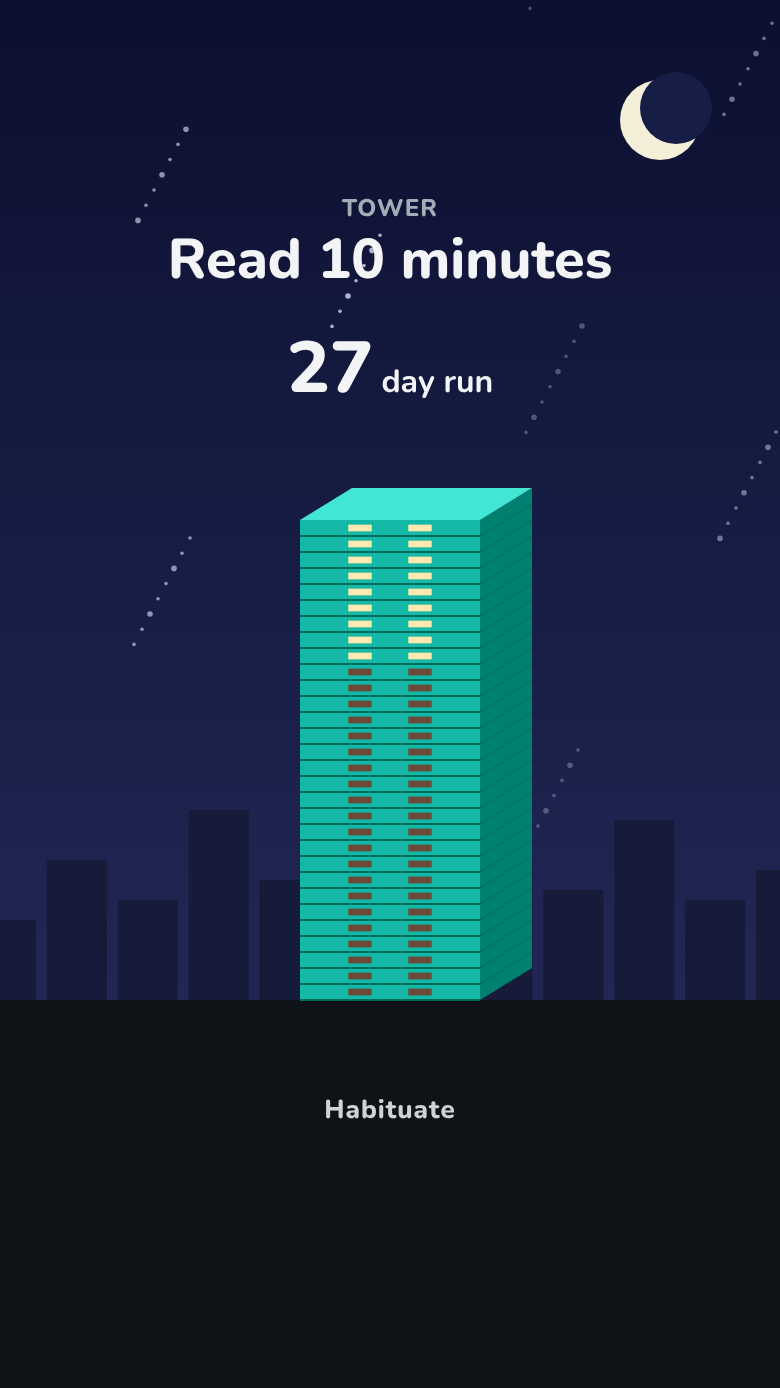
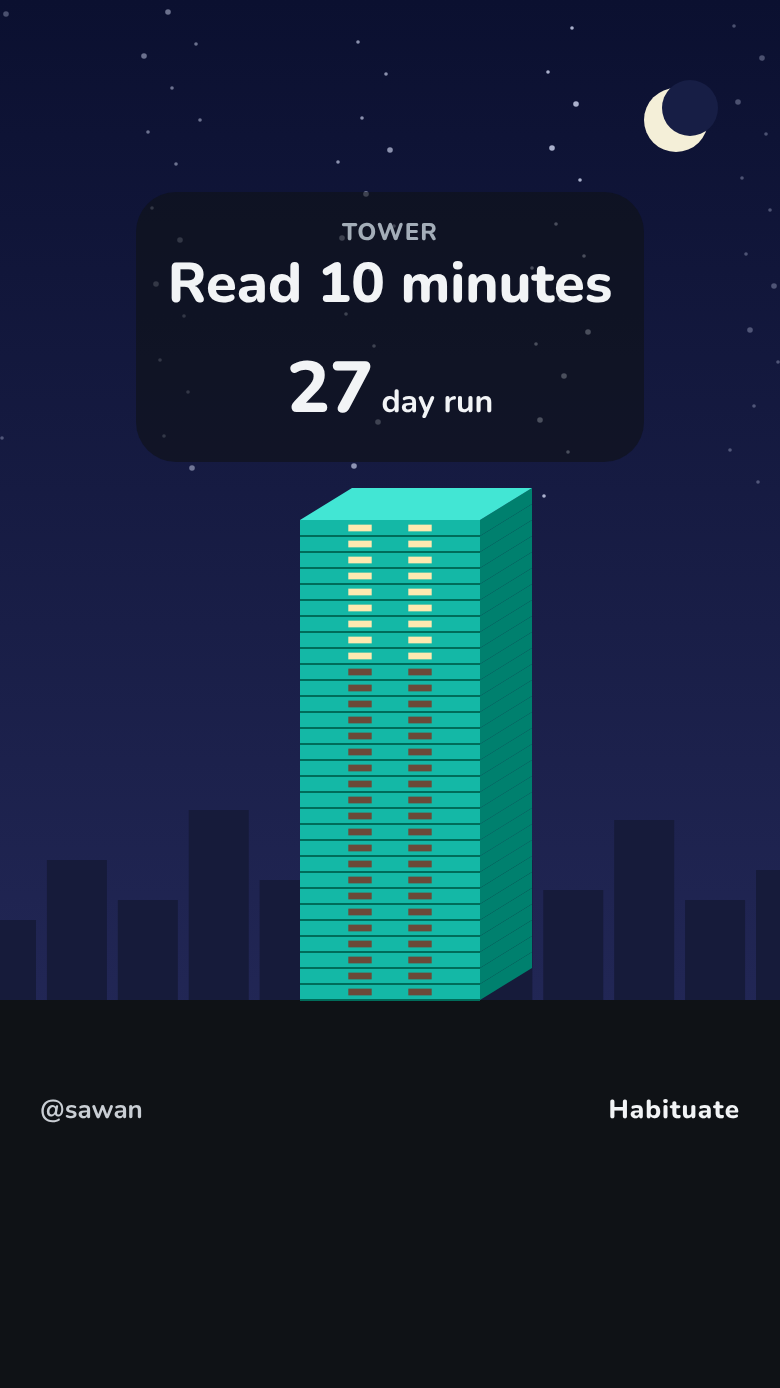
Design: share boards v2 (username, sky and colour, whole skyline, share sheet)
Claude-Session: https://claude.ai/code/session_01UvWD32uMFJU1E2B9jDYiLg

diff --git a/design/skyline/source/rd.js b/design/skyline/source/rd.js
@@ -65,21 +65,44 @@ if(S==='rd-21'){document.body.style.width='760px';document.body.style.height='64
  <div style="position:absolute;left:400px;top:200px"><div style="font-size:22px;font-weight:800">Topped out</div><div style="font-size:16px;color:${MU}">Fades behind the new one</div></div>
  <div style="position:absolute;left:520px;top:518px"><div style="font-size:22px;font-weight:800">New tower</div><div style="font-size:16px;color:${MU}">Run carries on</div></div></div>`;}
 
-// ---- share card (boards 80-82)
-const sky2=(w,h,seed=3)=>{let o='';for(let i=0;i<60;i++)o+=`<circle cx="${((i+seed)*97)%w}" cy="${((i+seed)*53)%(h*0.6)+4}" r="${i%3?0.9:1.4}" fill="#dfe6ff" opacity="${0.3+(i%4)*0.15}"/>`;return `<defs><linearGradient id="sk${w}" x1="0" y1="0" x2="0" y2="1"><stop offset="0" stop-color="#0B1030"/><stop offset="1" stop-color="#2A2F63"/></linearGradient></defs><rect width="${w}" height="${h}" fill="url(#sk${w})"/>${o}`};
-const far=(w,y)=>{let o='';const hs=[40,70,50,95,60,80,45,70,55,90,50,65];for(let i=0;i<12;i++){const x=i*(w/11)-12;o+=`<rect x="${x}" y="${y-hs[i]}" width="30" height="${hs[i]}" fill="#161B3A"/>`}return o};
-const wm=`<div style="font-size:13px;font-weight:800;letter-spacing:.5px;color:#F2F4F6;opacity:.85">Habituate</div>`;
-if(S==='rd-sh1'){document.body.style.width='390px';document.body.style.height='390px';
- R.innerHTML=`<div style="position:absolute;inset:0;overflow:hidden"><svg width="390" height="390">${sky2(390,390)}<circle cx="338" cy="52" r="16" fill="#F4EFD8"/><circle cx="345" cy="47" r="14" fill="#171E45"/>${far(390,330)}<rect y="330" width="390" height="60" fill="#0F1216"/>
- ${tw('#14B8A6',{x:70,base:330,w:84,fh:9,dx:24,dy:14,floors:fl(26,9),windows:2,today:false})}</svg>
- <div style="position:absolute;left:206px;top:84px;right:24px"><div style="font-size:12px;font-weight:800;letter-spacing:.5px;color:#A3ADB8">TOWER</div><div style="font-size:22px;font-weight:800;line-height:1.2;margin-top:2px">Read 10 minutes</div><div style="display:flex;align-items:baseline;gap:6px;margin-top:20px"><span style="font-size:36px;font-weight:800;line-height:1">27</span><span style="font-size:16px;font-weight:700">day run</span></div><div style="font-size:14px;color:#C9CED4;margin-top:8px">26 floors built</div></div>
- <div style="position:absolute;left:0;right:0;bottom:16px;text-align:center">${wm}</div></div>`;}
-const c916=(o={})=>{const n=o.n??30,lit=o.lit??9;return `<div style="position:relative;width:390px;height:694px;overflow:hidden"><svg width="390" height="694" style="position:absolute;inset:0">${sky2(390,694)}<circle cx="330" cy="60" r="20" fill="#F4EFD8"/><circle cx="338" cy="54" r="18" fill="#171E45"/>${far(390,500)}<rect y="500" width="390" height="194" fill="#0F1216"/>
- ${n?tw('#14B8A6',{x:150,base:500,w:90,fh:8,dx:26,dy:16,floors:fl(n,Math.min(lit,n)),windows:2,today:false}):'<path d="M130,500h110l26,-15h-110Z" fill="none" stroke="#7A86A8" stroke-width="1.6" stroke-dasharray="5 4"/>'}</svg>
- <div style="position:absolute;left:0;right:0;top:${o.tx??96}px;text-align:center;opacity:${o.t??1}"><div style="font-size:12px;font-weight:800;letter-spacing:.5px;color:#A3ADB8">TOWER</div><div style="font-size:28px;font-weight:800;line-height:1.15;margin-top:2px">Read 10 minutes</div><div style="margin-top:14px"><span style="font-size:36px;font-weight:800">27</span> <span style="font-size:16px;font-weight:700">day run</span></div></div>
- <div style="position:absolute;left:0;right:0;bottom:130px;text-align:center;opacity:${o.t??1}">${wm}</div></div>`};
-if(S==='rd-sh2'){R.innerHTML=`<div style="position:absolute;inset:0">${c916()}</div>`;document.body.style.height='694px'}
-if(S==='rd-sh3'){document.body.style.width='820px';document.body.style.height='470px';
- const fr=[['0.0 s','Sky and an empty lot',{n:0,t:0}],['1.2 s','Floors rise, one at a time',{n:14,lit:0,t:0}],['3.0 s','The latest floor lights up',{n:30,lit:9,t:0}],['4.0 s','Name and run fade in; stays 1 s',{}]];
- R.innerHTML=`<div style="position:absolute;inset:0;background:#0F1216;padding:16px 16px 0"><div style="font-size:12px;font-weight:800;letter-spacing:.5px;color:#F2C14E">CLIP · 9:16 · 5 SECONDS · NO SOUND REQUIRED</div><div style="display:flex;gap:12px;margin-top:10px">${fr.map(([t,l,o])=>`<div style="width:190px"><div style="width:190px;height:338px;border-radius:12px;overflow:hidden;position:relative"><div style="transform:scale(.487);transform-origin:0 0;position:absolute;left:0;top:0">${c916(o)}</div></div><div style="font-size:13px;font-weight:700;margin-top:6px">${t}</div><div style="font-size:12px;color:#A3ADB8;line-height:1.35">${l}</div></div>`).join('')}</div></div>`;}
+// ---- share card (boards 80-87)
+const SK={night:['#0B1030','#2A2F63','#161B3A','#171E45'],day:['#5BB8F0','#CDEBFA','#9CCBE6','#CDEBFA'],dusk:['#3A2F6B','#F59E6B','#5A3F6E','#3A2F6B'],rain:['#3A4552','#1E252D','#2A333C','#3A4552']};
+const skyArt=(k,w,h,gy)=>{const c=SK[k];let o=`<defs><linearGradient id="s${k}${w}" x1="0" y1="0" x2="0" y2="1"><stop offset="0" stop-color="${c[0]}"/><stop offset="1" stop-color="${c[1]}"/></linearGradient></defs><rect width="${w}" height="${h}" fill="url(#s${k}${w})"/>`;
+ if(k==='night'||k==='dusk'){for(let i=0;i<(k==='night'?60:14);i++)o+=`<circle cx="${(i*97+3)%w}" cy="${((i*53+3)%(gy*0.5))+4}" r="${i%3?0.9:1.4}" fill="#dfe6ff" opacity="${0.3+(i%4)*0.15}"/>`;}
+ if(k==='night')o+=`<circle cx="${w-52}" cy="${h>500?60:46}" r="16" fill="#F4EFD8"/><circle cx="${w-45}" cy="${h>500?54:41}" r="14" fill="#171E45"/>`;
+ if(k==='day')o+=`<circle cx="${w-56}" cy="${h>500?66:52}" r="20" fill="#FFE28A"/>`;
+ if(k==='dusk')o+=`<circle cx="${w*0.78}" cy="${gy-34}" r="26" fill="#FFC27A"/>`;
+ if(k==='rain'){for(let i=0;i<40;i++){const x=(i*61)%w,y=(i*47)%gy;o+=`<path d="M${x},${y}l-4,12" stroke="#8FA3B5" stroke-width="1.2" opacity=".5"/>`}}
+ const hs=[40,70,50,95,60,80,45,70,55,90,50,65];for(let i=0;i<12;i++)o+=`<rect x="${i*(w/11)-12}" y="${gy-hs[i]}" width="30" height="${hs[i]}" fill="${c[2]}"/>`;
+ return o+`<rect y="${gy}" width="${w}" height="${h-gy}" fill="${k==='day'?'#1D2A33':'#0F1216'}"/>`};
+const chip=(inner,extra='')=>`<div style="display:inline-block;background:rgba(15,18,22,.62);border-radius:20px;padding:12px 16px;${extra}">${inner}</div>`;
+const who=`<div style="font-size:13px;font-weight:700;color:#C9CED4">@sawan</div>`;
+const wm2=`<div style="font-size:13px;font-weight:800;letter-spacing:.5px;color:#F2F4F6">Habituate</div>`;
+const TW=[['#14B8A6',30,9],['#FF8A5C',22,8],['#F2C14E',12,4],['#A78BFA',26,7]];
+const sq=(o={})=>{const k=o.k||'night',col=o.col||'#14B8A6',all=o.all;return `<div style="position:relative;width:390px;height:390px;overflow:hidden"><svg width="390" height="390" style="position:absolute;inset:0">${skyArt(k,390,390,330)}
+ ${all?TW.map((t,i)=>tw(t[0],{x:28+i*58,base:330,w:40,fh:Math.min(5,125/t[1]),dx:12,dy:8,floors:fl(t[1],t[2]),windows:2,today:false})).join(''):tw(col,{x:56,base:330,w:84,fh:9,dx:24,dy:14,floors:fl(26,9),windows:2,today:false})}</svg>
+ <div style="position:absolute;left:${all?24:196}px;top:${all?40:70}px;right:20px">${chip(`<div style="font-size:12px;font-weight:800;letter-spacing:.5px;color:#A3ADB8">${all?'SKYLINE':'TOWER'}</div><div style="font-size:22px;font-weight:800;line-height:1.2;margin-top:2px">${all?'4 towers standing':'Read 10 minutes'}</div><div style="margin-top:10px"><span style="font-size:36px;font-weight:800;line-height:1">${all?'27':'27'}</span> <span style="font-size:16px;font-weight:700">${all?'day best run':'day run'}</span></div><div style="font-size:14px;color:#C9CED4;margin-top:6px">${all?'63 floors built':'26 floors built'}</div>`)}</div>
+ <div style="position:absolute;left:20px;right:20px;bottom:14px;display:flex;justify-content:space-between;align-items:center">${o.user===false?'<span></span>':who}${wm2}</div></div>`};
+const st=(o={})=>{const k=o.k||'night',col=o.col||'#14B8A6',all=o.all;return `<div style="position:relative;width:390px;height:694px;overflow:hidden"><svg width="390" height="694" style="position:absolute;inset:0">${skyArt(k,390,694,500)}
+ ${o.n===0?'<path d="M130,500h110l26,-15h-110Z" fill="none" stroke="#7A86A8" stroke-width="1.6" stroke-dasharray="5 4"/>':all?TW.map((t,i)=>tw(t[0],{x:34+i*84,base:500,w:56,fh:Math.min(8,190/t[1]),dx:16,dy:10,floors:fl(t[1],t[2]),windows:2,today:false})).join(''):tw(col,{x:150,base:500,w:90,fh:8,dx:26,dy:16,floors:fl(o.n??30,Math.min(9,o.n??30)),windows:2,today:false})}</svg>
+ <div style="position:absolute;left:0;right:0;top:${o.tx??96}px;text-align:center;opacity:${o.t??1}">${chip(`<div style="font-size:12px;font-weight:800;letter-spacing:.5px;color:#A3ADB8">${all?'SKYLINE':'TOWER'}</div><div style="font-size:28px;font-weight:800;line-height:1.15;margin-top:2px">${all?'4 towers standing':'Read 10 minutes'}</div><div style="margin-top:12px"><span style="font-size:36px;font-weight:800">27</span> <span style="font-size:16px;font-weight:700">${all?'day best run':'day run'}</span></div>`,'min-width:230px')}</div>
+ <div style="position:absolute;left:20px;right:20px;bottom:130px;opacity:${o.t??1};display:flex;justify-content:space-between;align-items:center">${who}${wm2}</div></div>`};
+const wrap=(w,h,html)=>{document.body.style.width=w+'px';document.body.style.height=h+'px';R.innerHTML=`<div style="position:absolute;inset:0">${html}</div>`};
+if(S==='rd-sh1')wrap(390,390,sq());
+if(S==='rd-sh2')wrap(390,694,st());
+if(S==='rd-sh3'){const fr=[['0.0 s','Sky and an empty lot',{n:0,t:0}],['1.2 s','Floors rise, one at a time',{n:14,t:0}],['3.0 s','The latest floor lights up',{n:30,t:0}],['4.0 s','Name, run and @username fade in; holds 1 s',{}]];
+ wrap(820,470,`<div style="position:absolute;inset:0;background:#0F1216;padding:16px 16px 0"><div style="font-size:12px;font-weight:800;letter-spacing:.5px;color:#F2C14E">CLIP · 9:16 · 5 SECONDS · NO SOUND REQUIRED</div><div style="display:flex;gap:12px;margin-top:10px">${fr.map(([t,l,o])=>`<div style="width:190px"><div style="width:190px;height:338px;border-radius:12px;overflow:hidden;position:relative"><div style="transform:scale(.487);transform-origin:0 0;position:absolute;left:0;top:0">${st(o)}</div></div><div style="font-size:13px;font-weight:700;margin-top:6px">${t}</div><div style="font-size:12px;color:#A3ADB8;line-height:1.35">${l}</div></div>`).join('')}</div></div>`);}
+if(S==='rd-sh4')wrap(390,390,sq({all:1}));
+if(S==='rd-sh5')wrap(390,694,st({all:1}));
+if(S==='rd-sh6'){const v=[['Night','night','#14B8A6'],['Clear day','day','#FF8A5C'],['Dusk','dusk','#A78BFA'],['Rain','rain','#F2C14E']];
+ wrap(820,420,`<div style="position:absolute;inset:0;background:#0F1216;padding:16px 16px 0"><div style="font-size:12px;font-weight:800;letter-spacing:.5px;color:#F2C14E">SKY FOLLOWS THE USER'S SKY SETTING · TOWER USES THE HABIT'S COLOUR</div><div style="display:flex;gap:12px;margin-top:10px">${v.map(([n,k,c])=>`<div style="width:190px"><div style="width:190px;height:190px;border-radius:12px;overflow:hidden;position:relative"><div style="transform:scale(.487);transform-origin:0 0">${sq({k,col:c})}</div></div><div style="font-size:13px;font-weight:700;margin-top:6px">${n}</div></div>`).join('')}</div><div style="font-size:13px;color:#A3ADB8;margin-top:12px;line-height:1.4;max-width:720px">Without a saved approximate location the sky follows the clock and skips weather, same as the Skyline tab. The text sits on a dark chip so it stays readable on any sky.</div></div>`);}
+if(S==='rd-sh7'){const opt=(t,sub,on)=>`<div style="display:flex;align-items:center;gap:12px;min-height:64px;border-bottom:1px solid #222a33"><div style="flex:1"><div style="font-size:16px;font-weight:700">${t}</div><div style="font-size:12px;color:#A3ADB8">${sub}</div></div><i style="width:24px;height:24px;border-radius:12px;display:block;${on?'background:#F2C14E;box-shadow:inset 0 0 0 6px #F2C14E,inset 0 0 0 9px #1b1608':'border:1.5px solid #4a5560'}"></i></div>`;
+ const fmt=(t,on)=>`<div style="flex:1;height:48px;border-radius:24px;display:flex;align-items:center;justify-content:center;font-size:16px;font-weight:700;${on?'background:#2B2717;border:1.5px solid #F2C14E':'background:#1E252D;color:#C9CED4'}">${t}</div>`;
+ wrap(390,844,`<div style="position:absolute;inset:0;background:#0F1216"></div><div style="position:absolute;inset:0;background:rgba(10,12,15,.6)"></div><div style="position:absolute;top:110px;left:0;right:0;bottom:0;background:#161B21;border-radius:28px 28px 0 0;padding:10px 20px 0"><div style="width:40px;height:4px;border-radius:2px;background:#3A4552;margin:0 auto 14px"></div>
+ <div style="font-size:22px;font-weight:800">Share</div><div style="font-size:14px;color:#A3ADB8">Choose what to share and how.</div>
+ <div style="margin-top:8px">${opt('This tower','Read 10 minutes · 27 day run',1)}${opt('My whole skyline','All 4 towers',0)}</div>
+ <div style="font-size:12px;font-weight:800;letter-spacing:.5px;color:#A3ADB8;margin-top:14px">FORMAT</div><div style="display:flex;gap:8px;margin-top:8px">${fmt('Square',1)}${fmt('Story',0)}${fmt('Clip',0)}</div>
+ <div style="display:flex;align-items:center;gap:12px;min-height:64px;margin-top:6px;border-top:1px solid #222a33"><div style="flex:1"><div style="font-size:16px;font-weight:700">Show @sawan</div><div style="font-size:12px;color:#A3ADB8">Adds your username to the card.</div></div><div style="width:52px;height:32px;border-radius:16px;background:#F2C14E;position:relative"><i style="position:absolute;right:4px;top:4px;width:24px;height:24px;border-radius:12px;background:#1b1608;display:block"></i></div></div>
+ <div style="margin:8px 0 12px;height:150px;border-radius:20px;overflow:hidden;position:relative"><div style="transform:scale(.385);transform-origin:0 0;position:absolute;left:112px">${sq()}</div></div>
+ <div style="height:54px;border-radius:27px;background:#F2C14E;color:#1b1608;font-size:16px;font-weight:800;display:flex;align-items:center;justify-content:center">Share</div><div style="text-align:center;font-size:14px;color:#A3ADB8;margin-top:12px;font-weight:600">Save to photos</div></div>`);}
 })();

diff --git a/design/skyline/source/shotsh.js b/design/skyline/source/shotsh.js
@@ -1,4 +1,4 @@
 const {chromium}=require('playwright');(async()=>{const b=await chromium.launch();
-for(const [n,w,h] of [['rd-sh1',390,390],['rd-sh2',390,694],['rd-sh3',820,470]]){const p=await b.newPage({viewport:{width:w,height:h},deviceScaleFactor:2});
+for(const [n,w,h] of [['rd-sh1',390,390],['rd-sh2',390,694],['rd-sh3',820,470],['rd-sh4',390,390],['rd-sh5',390,694],['rd-sh6',820,420],['rd-sh7',390,844]]){const p=await b.newPage({viewport:{width:w,height:h},deviceScaleFactor:2});
 await p.goto('file://'+__dirname+'/screens.html?s='+n,{waitUntil:'networkidle'}).catch(()=>{});await p.waitForTimeout(800);await p.screenshot({path:__dirname+'/'+n+'.png'});}
 await b.close()})();

diff --git a/design/skyline/README.md b/design/skyline/README.md
@@ -114,10 +114,14 @@ This is the only folder of Skyline mockups. The old `concept _screens/` folder w
 On `main`, boards 74, 75, 76, 77 and 78 (`74-tower-sheet-repair-run.png`, `75-tower-sheet-run-repaired.png`, `76-tower-sheet-log-amount.png`, `77-tower-sheet-log-amount-with-unit.png`, `78-create-form-amount-unit.png`) are the current versions: 76 is unitless, 77 and 78 carry the optional unit, and all five were re-rendered to the design system on 2026-11-21. If another branch has different PNGs at these paths, keep main's. The owner's own sign-off on the merge resolution is still needed.
 
 
-## Share tower (PROPOSAL 2026-11-24, awaiting the owner's own approval)
-Opened from the tower sheet. Static card in two sizes plus a short clip, same content: habit name, run length, floors built, the tower on a night skyline, small Habituate wordmark. No username, no friends, no check-in dates (profiles default to private). No open or missed floors shown; the tower is drawn clean. Day sky variants follow the sky rules in `SKYLINE.md`.
+## Share (PROPOSAL v2 2026-11-24, owner feedback applied, awaiting final approval)
+Opened from the tower sheet and from a Share entry for the whole skyline. The card shows the habit name (or "4 towers standing" for the skyline), run length, floors built, the tower or towers in the habit colour on the user's own sky (same sky and weather rules as the Skyline tab), the @username (a switch in the share sheet) and a small Habituate wordmark. Text sits on a dark chip so it never overlaps the art or the sky. No check-in dates; no open or missed floors are drawn.
 | Board | File | Notes |
 |---|---|---|
-| 80 | `80-share-card-square.png` | 1:1 feed post, export 1080 x 1080. Tower left, text right. |
-| 81 | `81-share-card-story.png` | 9:16 Stories and Reels, export 1080 x 1920. Text above the tower, wordmark at about 80% height; keep everything between 14% and 80% of the height clear of the app overlays. |
-| 82 | `82-share-clip-storyboard.png` | 9:16 clip, 5 seconds, no sound needed: empty lot, floors rise one at a time, the latest floor lights up, then name and run fade in and hold 1 second. Honour Reduce Motion by exporting the static card instead. |
+| 80 | `80-share-card-square.png` | one tower, 1:1 feed post, export 1080 x 1080 |
+| 81 | `81-share-card-story.png` | one tower, 9:16 Stories and Reels, export 1080 x 1920; keep content between 14% and 80% of the height |
+| 82 | `82-share-clip-storyboard.png` | 9:16 clip, 5 seconds, no sound needed; Reduce Motion exports the static card |
+| 83 | `83-share-skyline-square.png` | whole skyline, 1:1 |
+| 84 | `84-share-skyline-story.png` | whole skyline, 9:16 |
+| 85 | `85-share-sky-and-colour-variants.png` | night, clear day, dusk, rain; tower uses the habit colour |
+| 86 | `86-share-sheet.png` | choose This tower or My whole skyline, format Square / Story / Clip, Show @username switch, preview, Share, Save to photos |
